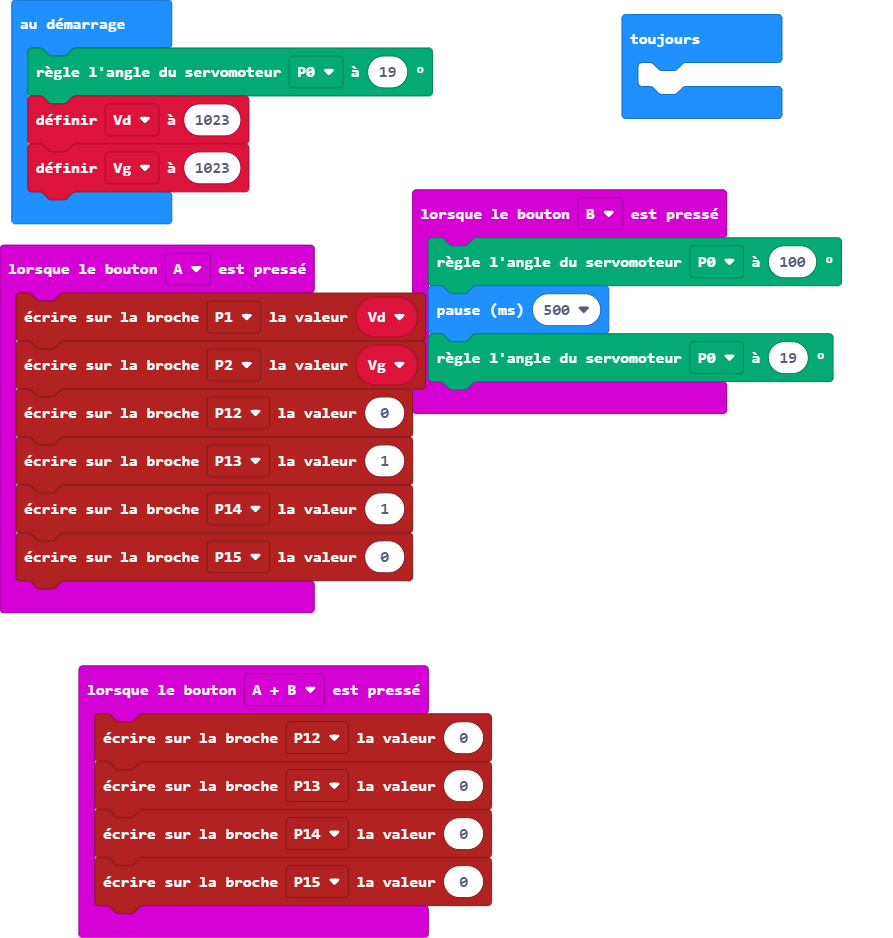
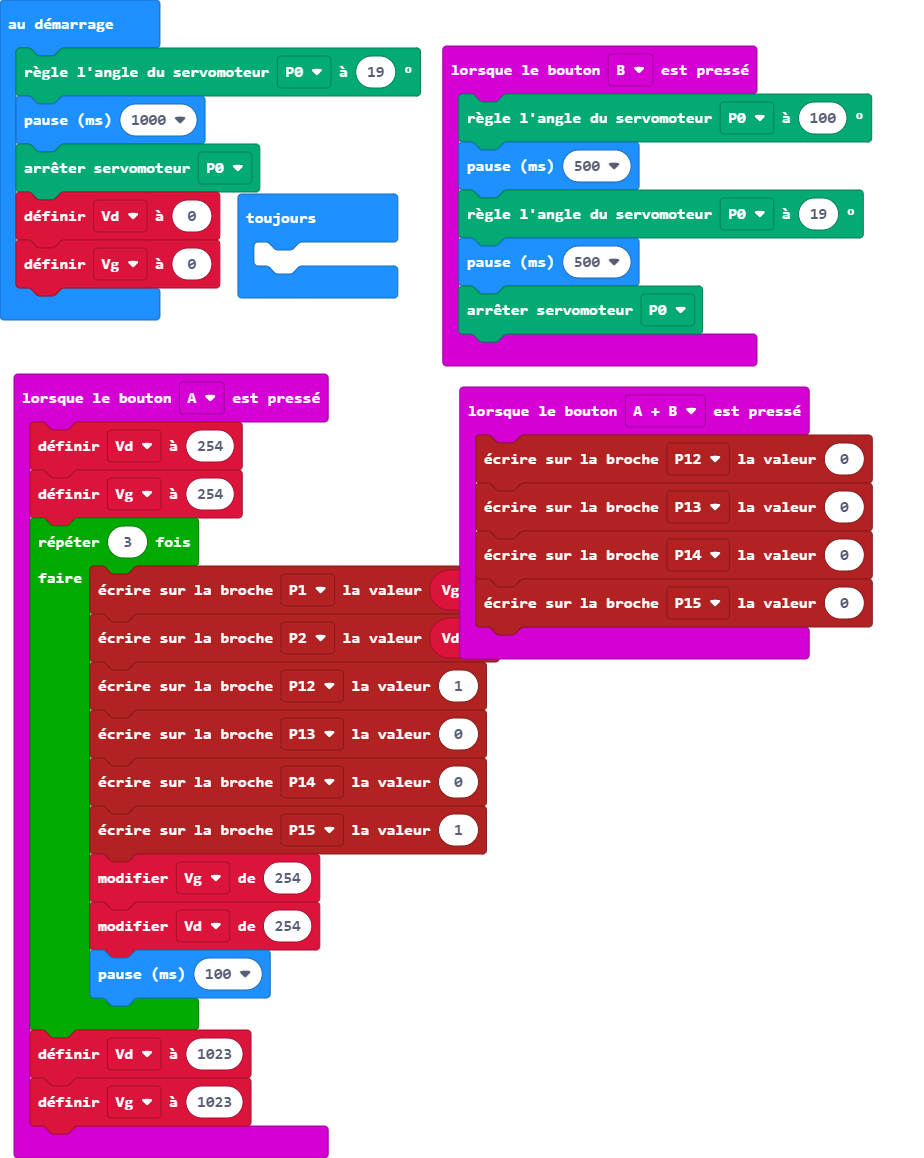
Mise à jour main.blocks, main.ts

diff --git a/main.ts b/main.ts
@@ -1,10 +1,19 @@
 input.onButtonPressed(Button.A, function () {
-    pins.digitalWritePin(DigitalPin.P1, Vd)
-    pins.digitalWritePin(DigitalPin.P2, Vg)
-    pins.digitalWritePin(DigitalPin.P12, 0)
-    pins.digitalWritePin(DigitalPin.P13, 1)
-    pins.digitalWritePin(DigitalPin.P14, 1)
-    pins.digitalWritePin(DigitalPin.P15, 0)
+    Vd = 254
+    Vg = 254
+    for (let index = 0; index < 3; index++) {
+        pins.analogWritePin(AnalogPin.P1, Vg)
+        pins.analogWritePin(AnalogPin.P2, Vd)
+        pins.digitalWritePin(DigitalPin.P12, 1)
+        pins.digitalWritePin(DigitalPin.P13, 0)
+        pins.digitalWritePin(DigitalPin.P14, 0)
+        pins.digitalWritePin(DigitalPin.P15, 1)
+        Vg += 254
+        Vd += 254
+        basic.pause(100)
+    }
+    Vd = 1023
+    Vg = 1023
 })
 input.onButtonPressed(Button.AB, function () {
     pins.digitalWritePin(DigitalPin.P12, 0)
@@ -16,12 +25,16 @@ input.onButtonPressed(Button.B, function () {
     servos.P0.setAngle(100)
     basic.pause(500)
     servos.P0.setAngle(19)
+    basic.pause(500)
+    servos.P0.stop()
 })
 let Vg = 0
 let Vd = 0
 servos.P0.setAngle(19)
-Vd = 1023
-Vg = 1023
+basic.pause(1000)
+servos.P0.stop()
+Vd = 0
+Vg = 0
 basic.forever(function () {
 	
 })
